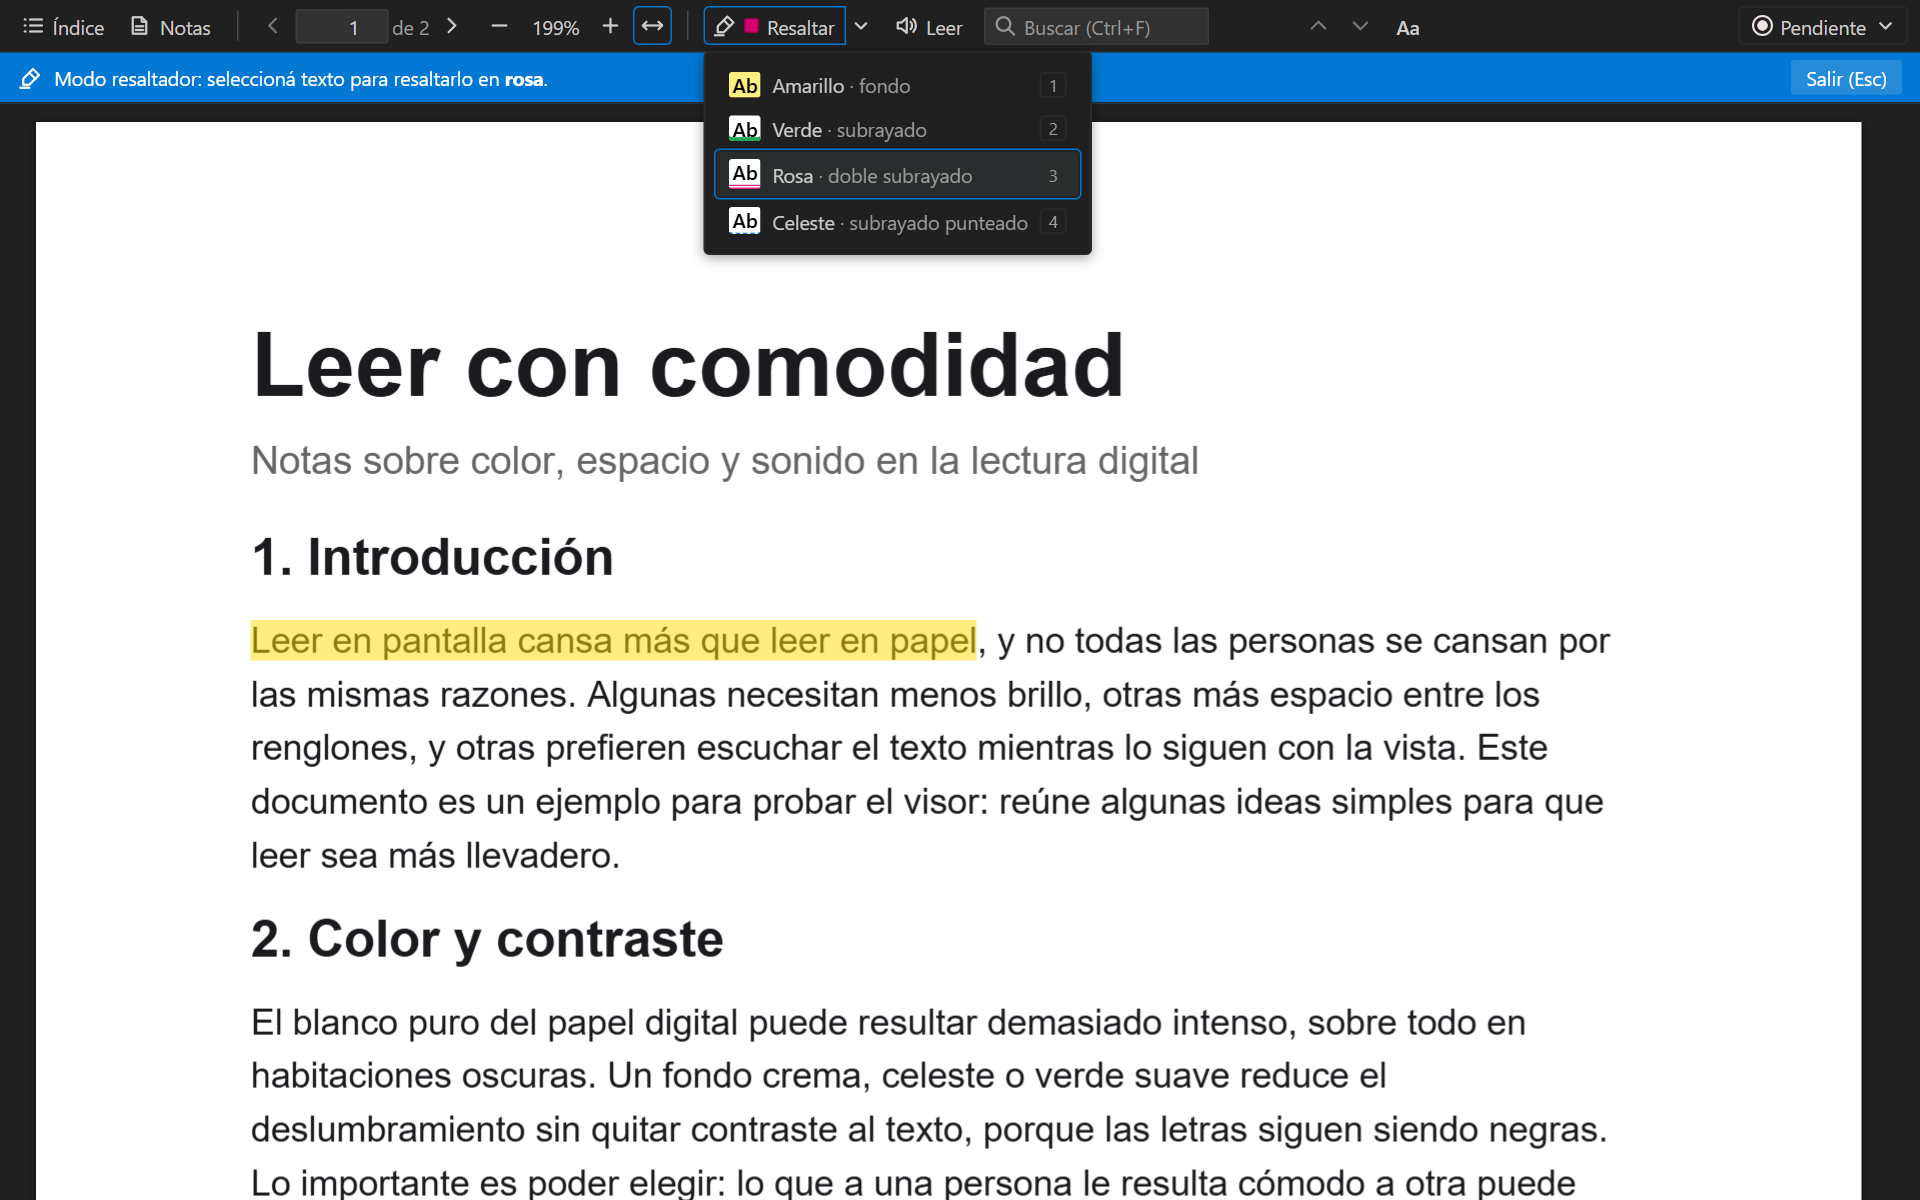
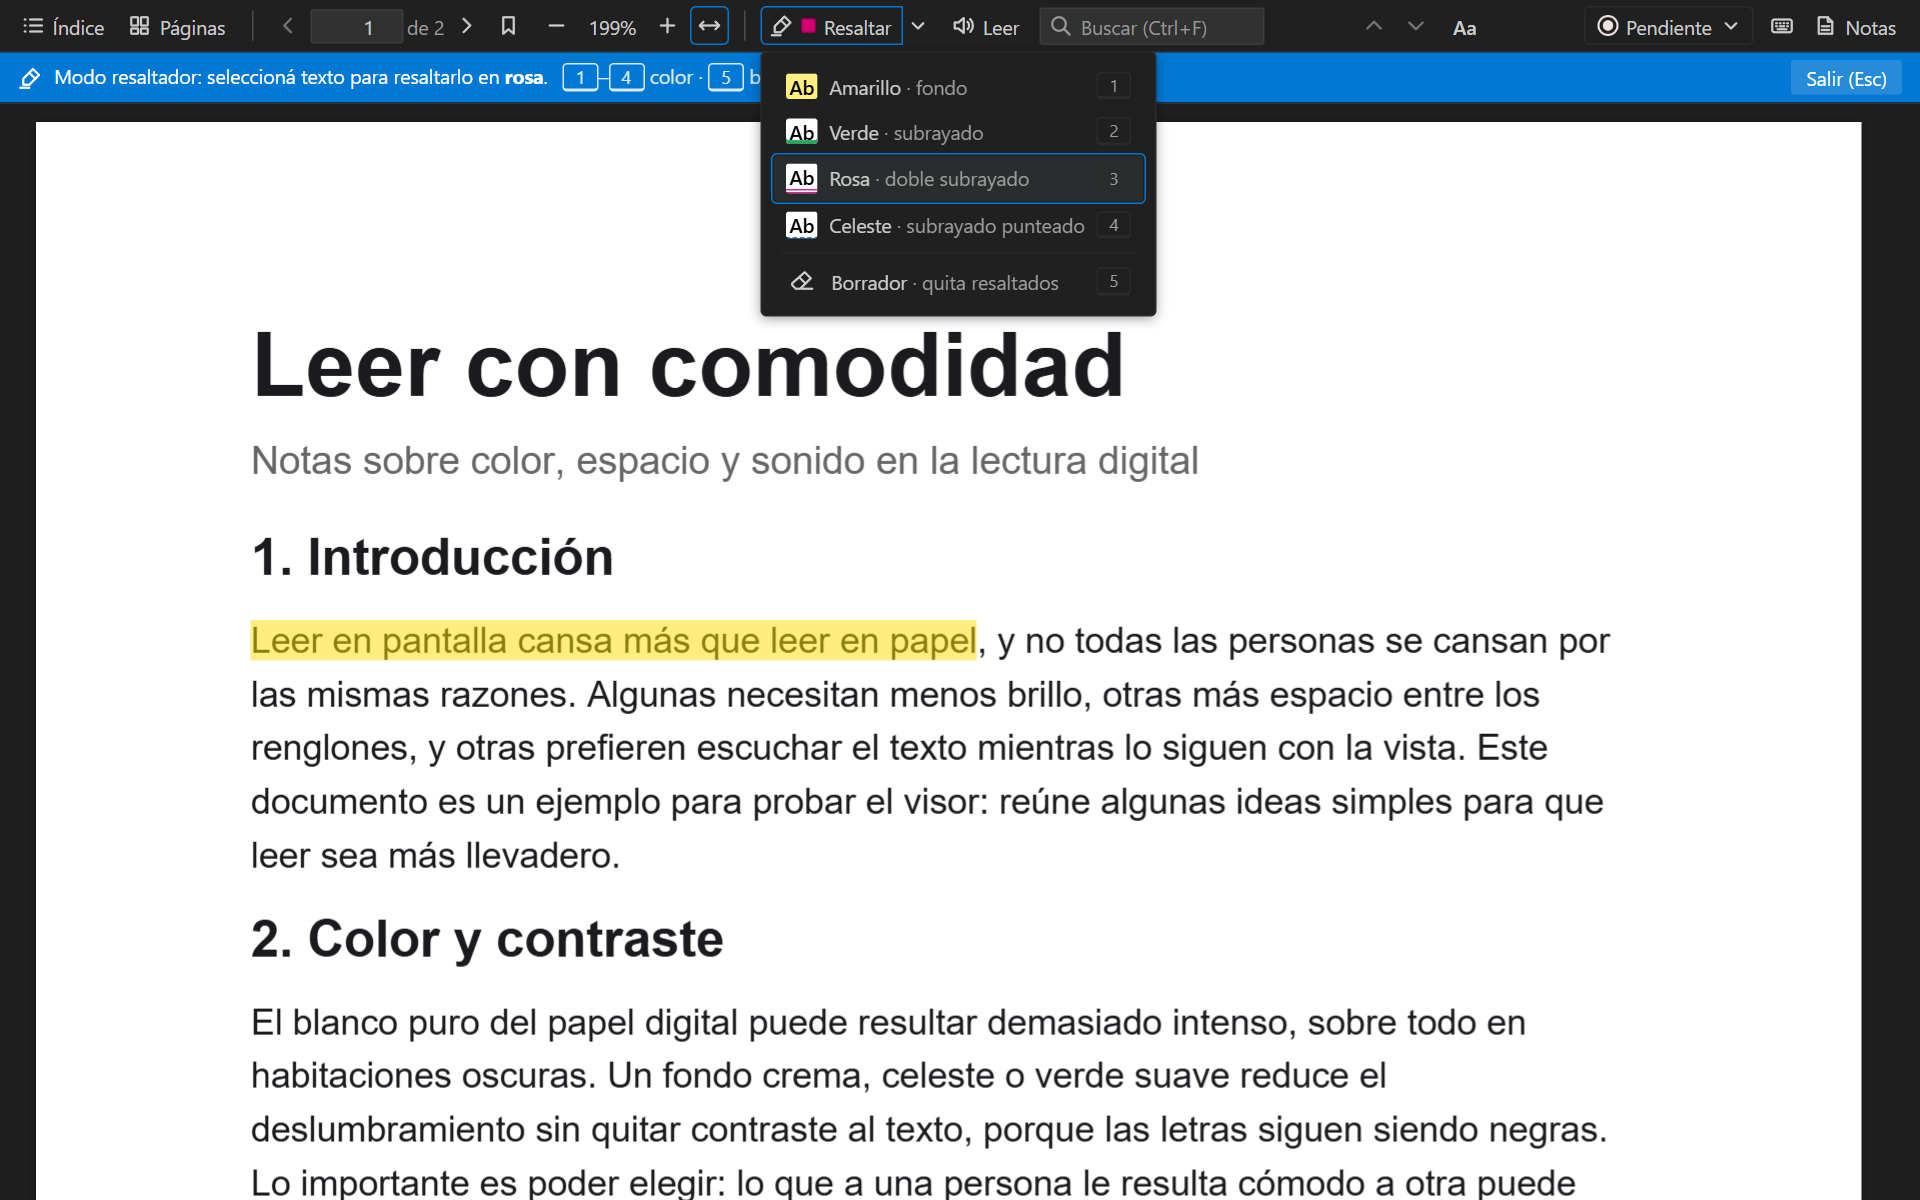
Barra: estado, atajos y Notas juntos a la derecha; ícono nuevo de "En progreso"
- Estado, atajos y Notas van en un mismo grupo a la derecha: si la barra no
  entra en un renglón, bajan juntos y siguen a la derecha, sobre el panel.
- En editores angostos el estado muestra solo su ícono y el buscador se
  achica, así la barra entra en una línea con más frecuencia.
- Ícono de "En progreso" con el mismo aro que "Pendiente" y "Hecho" y un
  círculo lleno a la mitad (como la marca del explorador).
- La lista de resaltados ya no baja el texto a otro renglón (solo el
  comentario va abajo).
- Capturas, GIF y portada regenerados.

diff --git a/src/plantilla.js b/src/plantilla.js
@@ -218,18 +218,22 @@ function armarHtmlDelVisor({ cspSource, uriViewerCss, uriViewerJs, uriIcono, con
       <p id="sin-voces" class="menu-ayuda oculto">${t('No hay voces instaladas. En Windows se agregan en Configuración → Hora e idioma → Voz.')}</p>
     </div>
   </div>
-  <div class="grupo" id="grupo-estado">
-    <button id="boton-estado" aria-haspopup="menu" aria-expanded="false" aria-controls="menu-estado" title="${t('Estado del documento')}" disabled><span id="icono-estado-actual"></span><span id="texto-estado-actual">${t('Pendiente')}</span>${ICONOS.desplegar}</button>
-    <div id="menu-estado" class="menu-flotante menu-lista oculto" role="menu" aria-label="${t('Estado del documento')}">${opcionesEstado}</div>
-  </div>
-  <!-- Notas va a la derecha de todo, justo arriba de donde se abre su panel. -->
-  <div class="grupo" id="grupo-atajos">
-    <button id="boton-atajos" class="boton-icono" aria-haspopup="dialog" aria-expanded="false" aria-controls="panel-atajos" aria-keyshortcuts="?" title="${t('Atajos de teclado (?)')}" aria-label="${t('Atajos de teclado')}">${ICONOS.teclado}</button>
-    <div id="panel-atajos" class="menu-flotante oculto" role="dialog" aria-label="${t('Atajos de teclado')}" tabindex="-1">
-      <div class="panel-atajos-encabezado"><span class="menu-titulo">${t('Atajos de teclado')}</span><span class="menu-ayuda">${t('No funcionan mientras escribís en las notas o en el buscador.')}</span></div>
-      <div class="columnas-atajos">${atajosHtml()}</div>
+  <!-- Estado, atajos y Notas van juntos a la derecha: si la barra no entra en un
+       renglón, bajan los tres juntos y siguen a la derecha, arriba del panel de notas. -->
+  <div class="lado-derecho">
+    <div class="grupo" id="grupo-estado">
+      <button id="boton-estado" aria-haspopup="menu" aria-expanded="false" aria-controls="menu-estado" title="${t('Estado del documento')}" disabled><span id="icono-estado-actual"></span><span id="texto-estado-actual">${t('Pendiente')}</span>${ICONOS.desplegar}</button>
+      <div id="menu-estado" class="menu-flotante menu-lista oculto" role="menu" aria-label="${t('Estado del documento')}">${opcionesEstado}</div>
     </div>
-    <button id="boton-notas" class="boton-icono con-etiqueta" aria-pressed="false" aria-controls="panel-notas" title="${t('Notas y resaltados de este documento')}">${ICONOS.notas}<span class="etiqueta">${t('Notas')}</span></button>
+    <!-- Notas va a la derecha de todo, justo arriba de donde se abre su panel. -->
+    <div class="grupo" id="grupo-atajos">
+      <button id="boton-atajos" class="boton-icono" aria-haspopup="dialog" aria-expanded="false" aria-controls="panel-atajos" aria-keyshortcuts="?" title="${t('Atajos de teclado (?)')}" aria-label="${t('Atajos de teclado')}">${ICONOS.teclado}</button>
+      <div id="panel-atajos" class="menu-flotante oculto" role="dialog" aria-label="${t('Atajos de teclado')}" tabindex="-1">
+        <div class="panel-atajos-encabezado"><span class="menu-titulo">${t('Atajos de teclado')}</span><span class="menu-ayuda">${t('No funcionan mientras escribís en las notas o en el buscador.')}</span></div>
+        <div class="columnas-atajos">${atajosHtml()}</div>
+      </div>
+      <button id="boton-notas" class="boton-icono con-etiqueta" aria-pressed="false" aria-controls="panel-notas" title="${t('Notas y resaltados de este documento')}">${ICONOS.notas}<span class="etiqueta">${t('Notas')}</span></button>
+    </div>
   </div>
 </div>
 <div id="aviso-modo" class="franja-aviso oculto" role="status">

diff --git a/media/viewer.css b/media/viewer.css
@@ -46,8 +46,16 @@ body {
 }
 
 /* El estado del práctico va a la derecha de todo. */
-#grupo-estado {
+/* Estado, atajos y Notas van juntos a la derecha de todo. Si la barra no entra en
+   un renglón, bajan juntos y siguen a la derecha (arriba del panel de notas). */
+.lado-derecho {
   margin-left: auto;
+  display: flex;
+  align-items: center;
+  gap: 6px;
+}
+
+#grupo-estado {
   position: relative;
 }
 
@@ -209,6 +217,15 @@ kbd.tecla-mini {
 @media (max-width: 1050px) {
   #barra-herramientas .etiqueta {
     display: none;
+  }
+
+  /* El estado queda solo con su ícono (el nombre está en el menú y al pasar el mouse). */
+  #texto-estado-actual {
+    display: none;
+  }
+
+  #campo-busqueda {
+    width: 120px;
   }
 }
 
@@ -1391,6 +1408,11 @@ html:not([data-papel='blanco'], [data-papel='oscuro']) .hoja-miniatura canvas {
   flex-wrap: wrap;
 }
 
+/* Con comentario el item tiene dos renglones: los botones quedan a la altura del primero. */
+#panel-notas #lista-resaltados .item-con-quitar {
+  align-items: flex-start;
+}
+
 #lista-resaltados .comentario-item {
   flex-basis: 100%;
   margin-left: 30px;
@@ -1476,7 +1498,11 @@ html:not([data-papel='blanco'], [data-papel='oscuro']) .hoja-miniatura canvas {
   font-variant-numeric: tabular-nums;
 }
 
+/* Ocupa lo que queda del renglón y se corta con "…": así nunca baja a otra línea
+   (en la lista de resaltados solo el comentario va abajo). */
 .texto-ancla {
+  flex: 1 1 0;
+  min-width: 0;
   overflow: hidden;
   white-space: nowrap;
   text-overflow: ellipsis;
